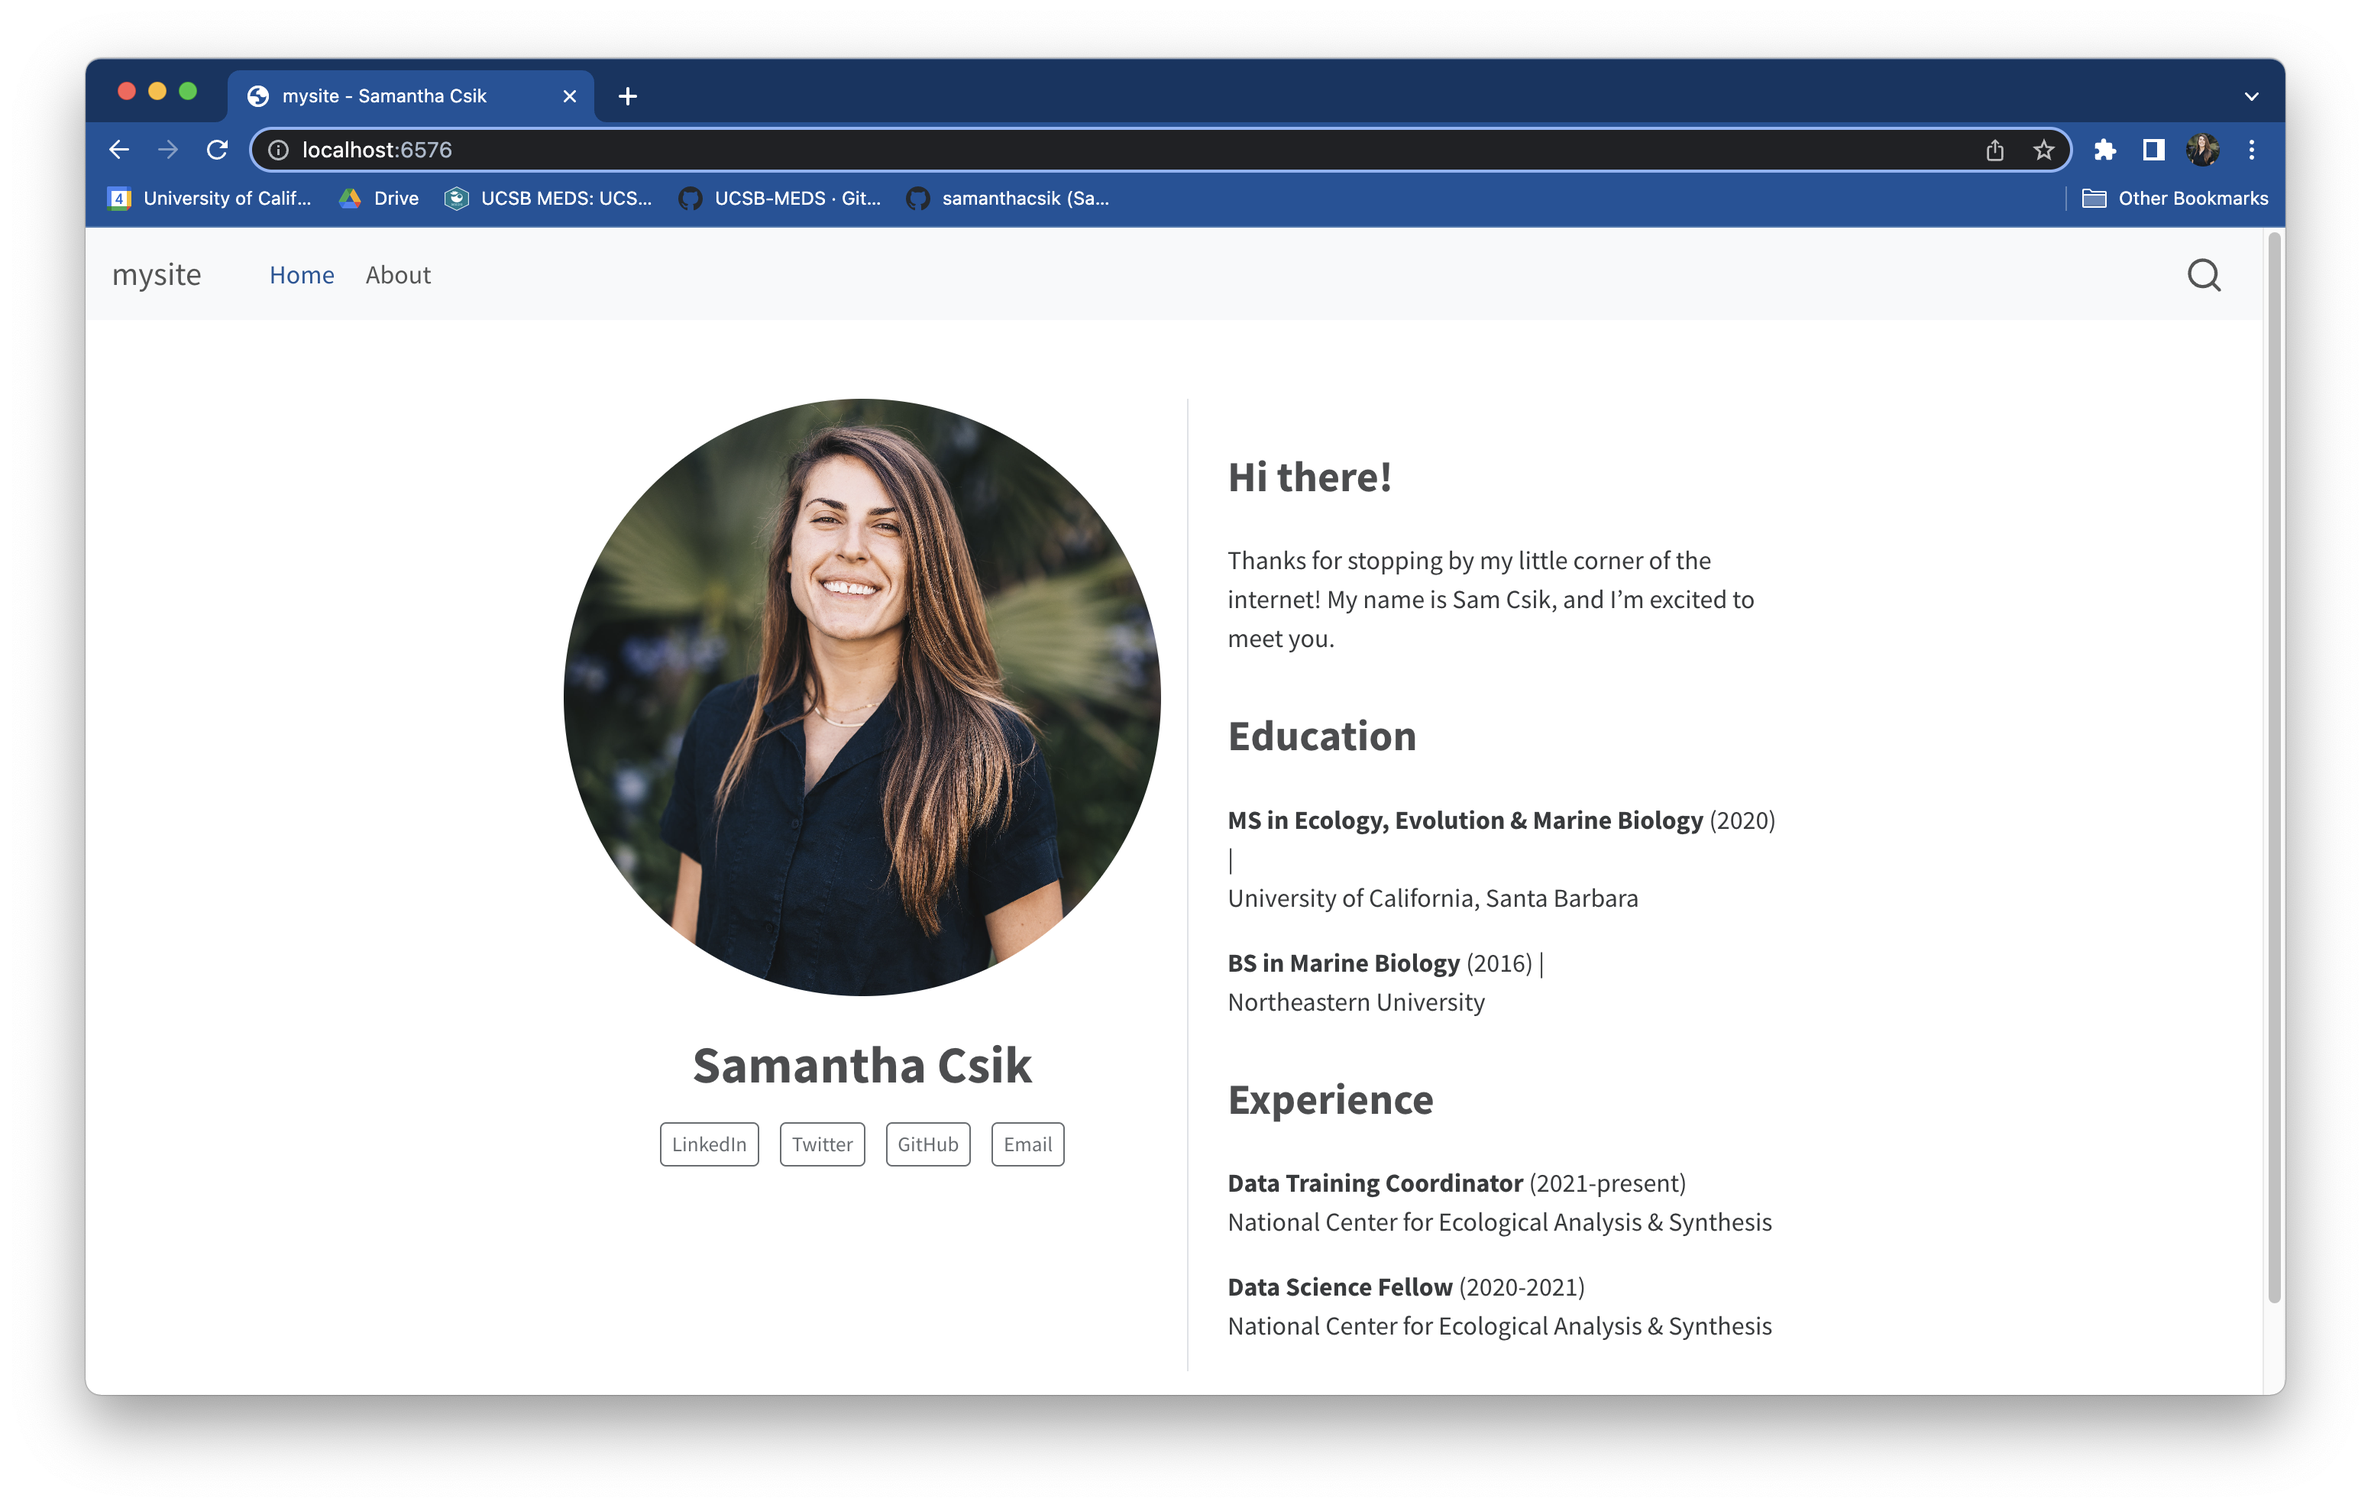
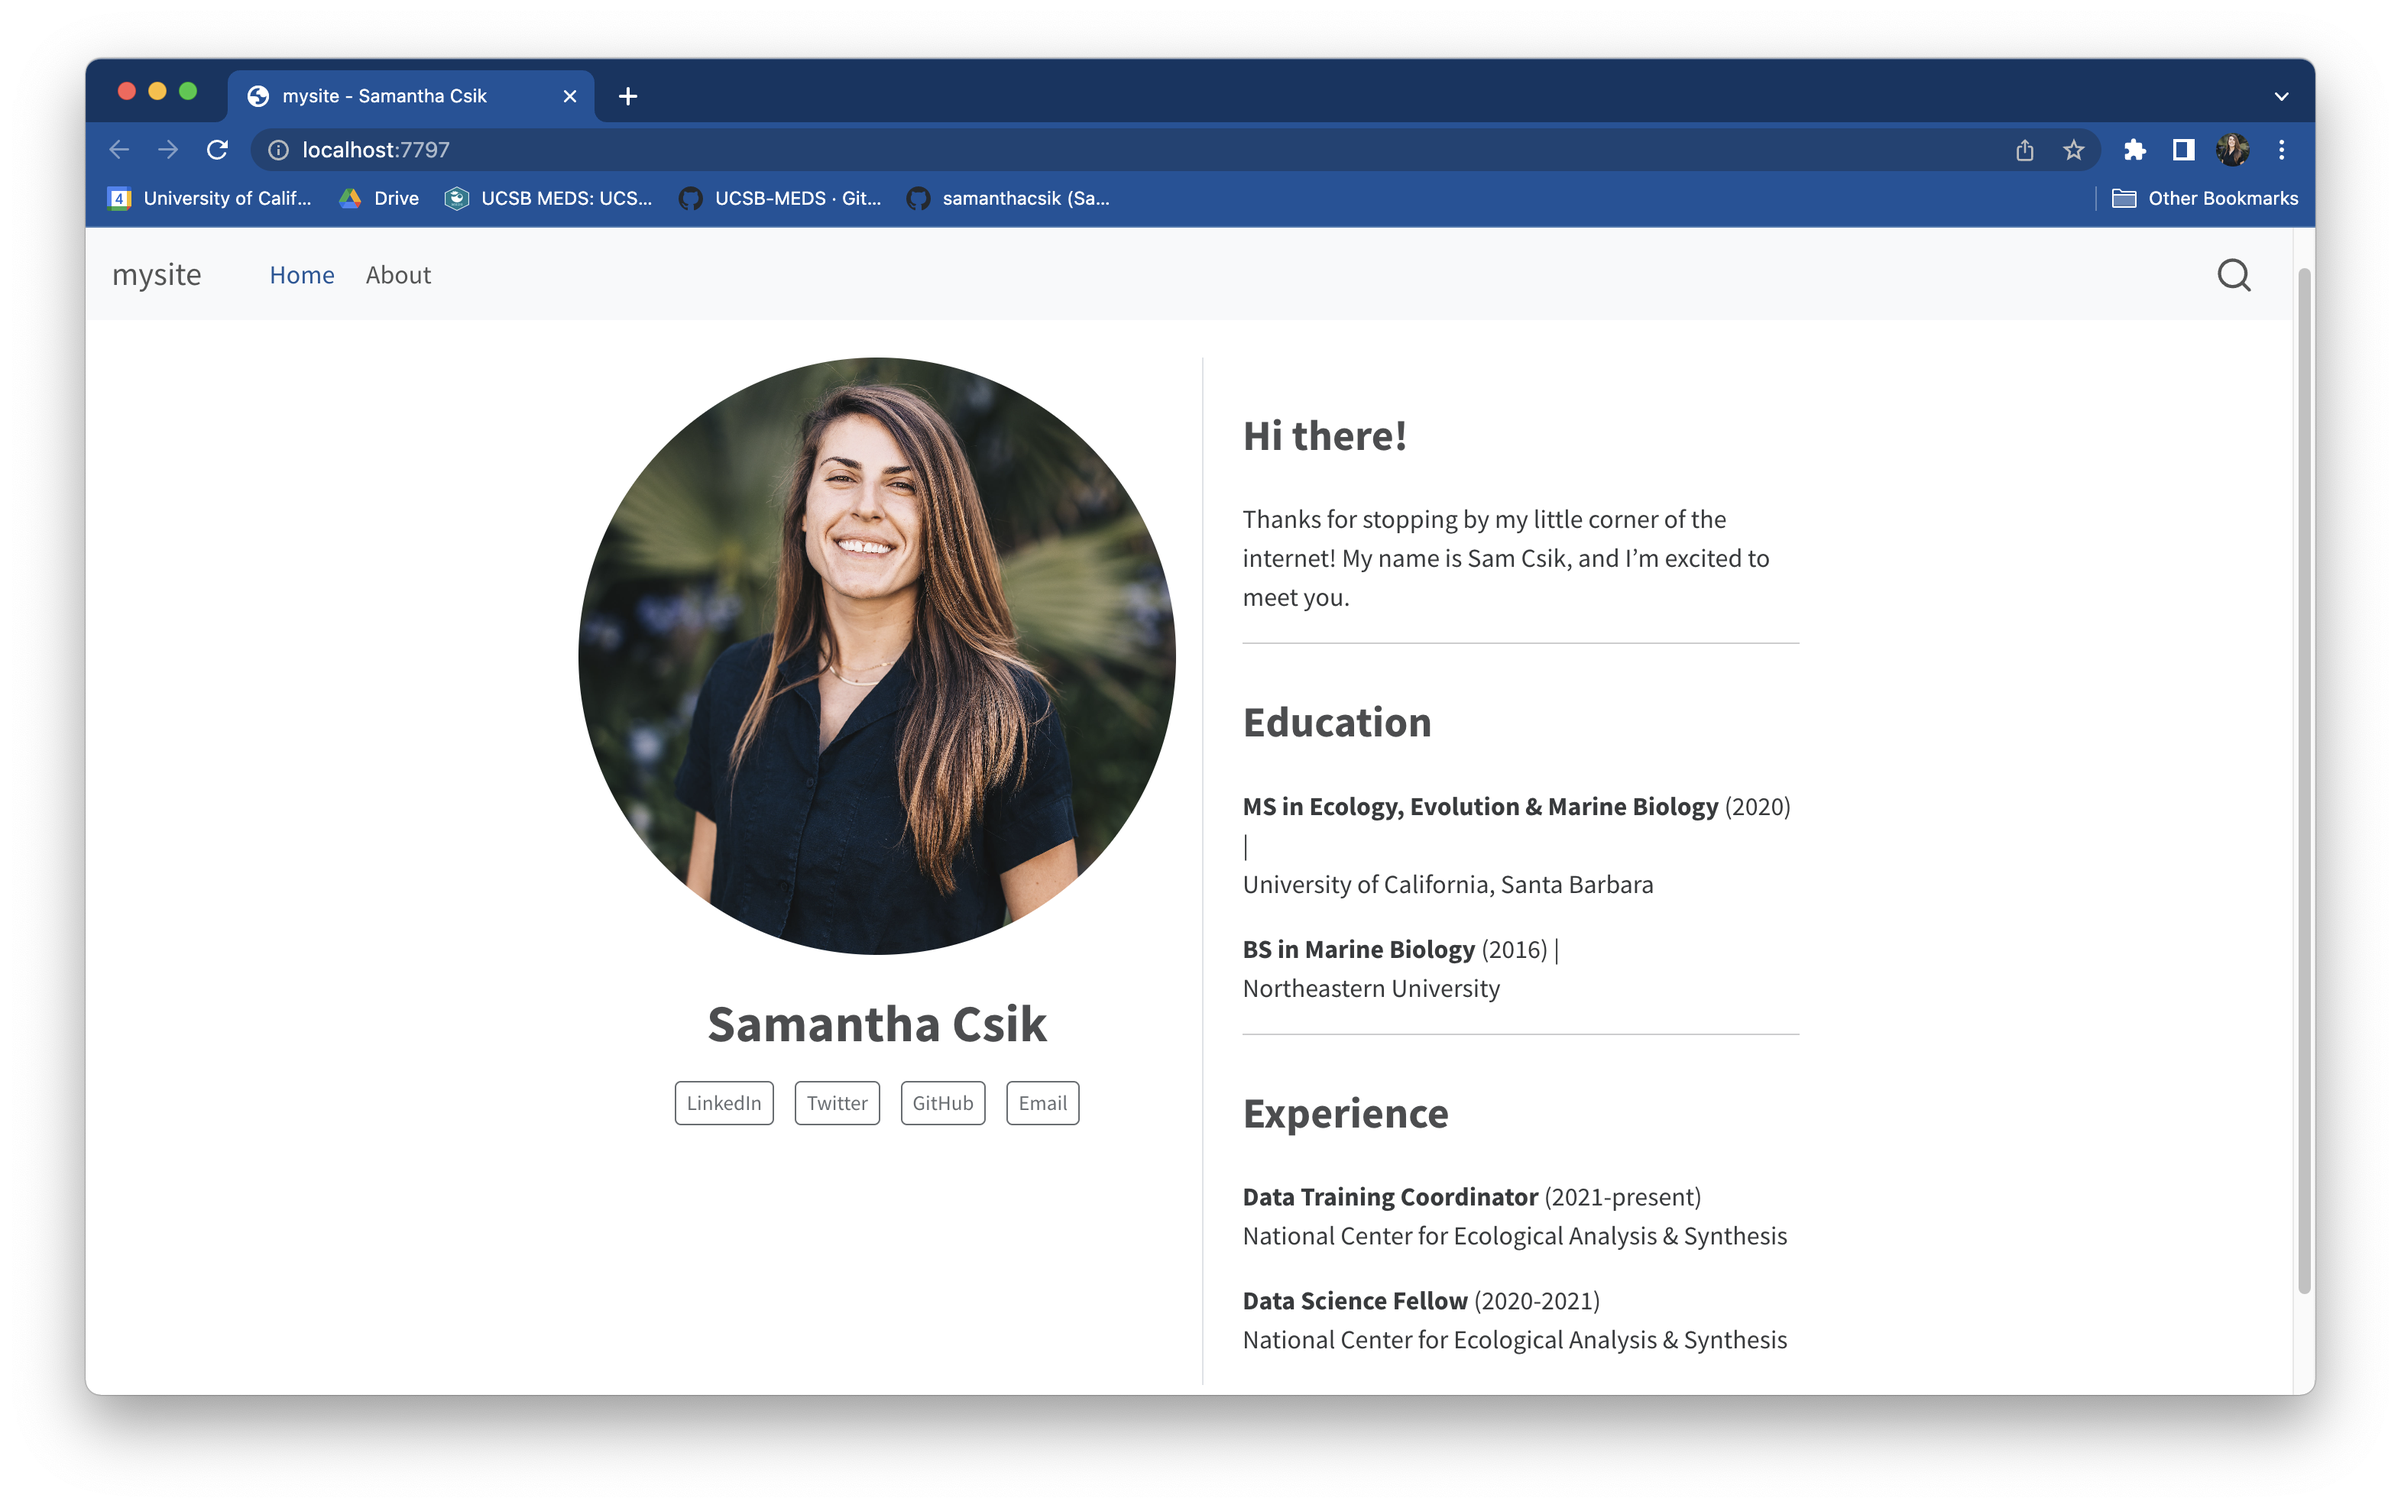
fixed incorrect screenshot

diff --git a/index.html b/index.html
@@ -828,19 +828,19 @@ Check out the <strong>Actions</strong> tab on GitHub to view deployment status
 <dl class="code-annotation-container-grid">
 <dt data-target-cell="annotated-cell-3" data-target-annotation="1">1</dt>
 <dd>
-<span data-code-annotation="1" data-code-cell="annotated-cell-3" data-code-lines="3">add a photo by supplying a file path &amp; image name (here, <code>headshot.jpg</code> lives in my repo’s root directory)</span>
+<span data-code-lines="3" data-code-annotation="1" data-code-cell="annotated-cell-3">add a photo by supplying a file path &amp; image name (here, <code>headshot.jpg</code> lives in my repo’s root directory)</span>
 </dd>
 <dt data-target-cell="annotated-cell-3" data-target-annotation="2">2</dt>
 <dd>
-<span data-code-annotation="2" data-code-cell="annotated-cell-3" data-code-lines="5">use a <a href="https://quarto.org/docs/websites/website-about.html#templates">pre-built template</a> (here, <code>trestles</code>) to update the layout of your landing page (or any page!)</span>
+<span data-code-lines="5" data-code-annotation="2" data-code-cell="annotated-cell-3">use a <a href="https://quarto.org/docs/websites/website-about.html#templates">pre-built template</a> (here, <code>trestles</code>) to update the layout of your landing page (or any page!)</span>
 </dd>
 <dt data-target-cell="annotated-cell-3" data-target-annotation="3">3</dt>
 <dd>
-<span data-code-annotation="3" data-code-cell="annotated-cell-3" data-code-lines="6,7">set image shape (<code>round</code>, <code>rounded</code>, <code>rectangle</code>) &amp; size</span>
+<span data-code-lines="6,7" data-code-annotation="3" data-code-cell="annotated-cell-3">set image shape (<code>round</code>, <code>rounded</code>, <code>rectangle</code>) &amp; size</span>
 </dd>
 <dt data-target-cell="annotated-cell-3" data-target-annotation="4">4</dt>
 <dd>
-<span data-code-annotation="4" data-code-cell="annotated-cell-3" data-code-lines="8,9,10,11,12,13,14,15,16">add button links to your favorite social media pages (e.g.&nbsp;LinkedIn, Twitter, GitHub, and even your email – <strong>Note:</strong> the <code>mailto::</code> ahead of your email address, <code>mailto::youremail.com</code>)</span>
+<span data-code-lines="8,9,10,11,12,13,14,15,16" data-code-annotation="4" data-code-cell="annotated-cell-3">add button links to your favorite social media pages (e.g.&nbsp;LinkedIn, Twitter, GitHub, and even your email – <strong>Note:</strong> the <code>mailto::</code> ahead of your email address, <code>mailto::youremail.com</code>)</span>
 </dd>
 </dl>
 </div>
@@ -852,7 +852,7 @@ Check out the <strong>Actions</strong> tab on GitHub to view deployment status
 <div class="cell-output-display">
 <div class="quarto-figure quarto-figure-center">
 <figure class="figure">
-<p><img src="media/about_page.png" class="img-fluid figure-img" width="1552"></p>
+<p><img src="media/about_page.png" class="img-fluid figure-img" width="1571"></p>
 <p></p><figcaption class="figure-caption">My Quarto website after updating my landing page with the built-in <code>trestles</code> template, adding an image, and linked buttons. (<strong>Note:</strong> using three dashes, <code>---</code>, creates a page divider, as seen between sections in the screenshot above.) Overall, a big improvement! However, our text is a bit squished in the center of the page – we’ll fix then in the next step.</figcaption><p></p>
 </figure>
 </div>
@@ -905,11 +905,11 @@ Quarto supports creating completely custom page layouts – but I recommend stic
 <dl class="code-annotation-container-grid">
 <dt data-target-cell="annotated-cell-4" data-target-annotation="1">1</dt>
 <dd>
-<span data-code-annotation="1" data-code-cell="annotated-cell-4" data-code-lines="6">Give your website a better title (e.g.&nbsp;your name)! This is the text that appears in the top left corner of your website (by default, it appears as your repo name) – when clicked, a user will be brought back to the landing page</span>
+<span data-code-lines="6" data-code-annotation="1" data-code-cell="annotated-cell-4">Give your website a better title (e.g.&nbsp;your name)! This is the text that appears in the top left corner of your website (by default, it appears as your repo name) – when clicked, a user will be brought back to the landing page</span>
 </dd>
 <dt data-target-cell="annotated-cell-4" data-target-annotation="2">2</dt>
 <dd>
-<span data-code-annotation="2" data-code-cell="annotated-cell-4" data-code-lines="17">Set your <code>page-layout</code> to <code>full</code> so that your page content takes up more of the page width</span>
+<span data-code-lines="17" data-code-annotation="2" data-code-cell="annotated-cell-4">Set your <code>page-layout</code> to <code>full</code> so that your page content takes up more of the page width</span>
 </dd>
 </dl>
 <div class="cell" data-layout-align="center">
@@ -958,7 +958,7 @@ Quarto supports creating completely custom page layouts – but I recommend stic
 <dl class="code-annotation-container-grid">
 <dt data-target-cell="annotated-cell-5" data-target-annotation="1">1</dt>
 <dd>
-<span data-code-annotation="1" data-code-cell="annotated-cell-5" data-code-lines="13">A newly-added navbar page. <strong>Note:</strong> The page name, as it appears in the navbar of your website, will be the same as whatever is listed in the <code>title</code> field of that file’s yaml. For example, I have set <code>title: "All my favorite resources!"</code> in the yaml of <code>resources.qmd</code> – this is how it will appear in my website’s navbar. If you’d like the page name to appear differently in the navbar, use the <code>href</code> and <code>text</code> options together (e.g.&nbsp;see how <code>index.qmd</code> is rendered as <code>Home</code> in my website’s navbar).</span>
+<span data-code-lines="13" data-code-annotation="1" data-code-cell="annotated-cell-5">A newly-added navbar page. <strong>Note:</strong> The page name, as it appears in the navbar of your website, will be the same as whatever is listed in the <code>title</code> field of that file’s yaml. For example, I have set <code>title: "All my favorite resources!"</code> in the yaml of <code>resources.qmd</code> – this is how it will appear in my website’s navbar. If you’d like the page name to appear differently in the navbar, use the <code>href</code> and <code>text</code> options together (e.g.&nbsp;see how <code>index.qmd</code> is rendered as <code>Home</code> in my website’s navbar).</span>
 </dd>
 </dl>
 <div class="cell" data-layout-align="center">
